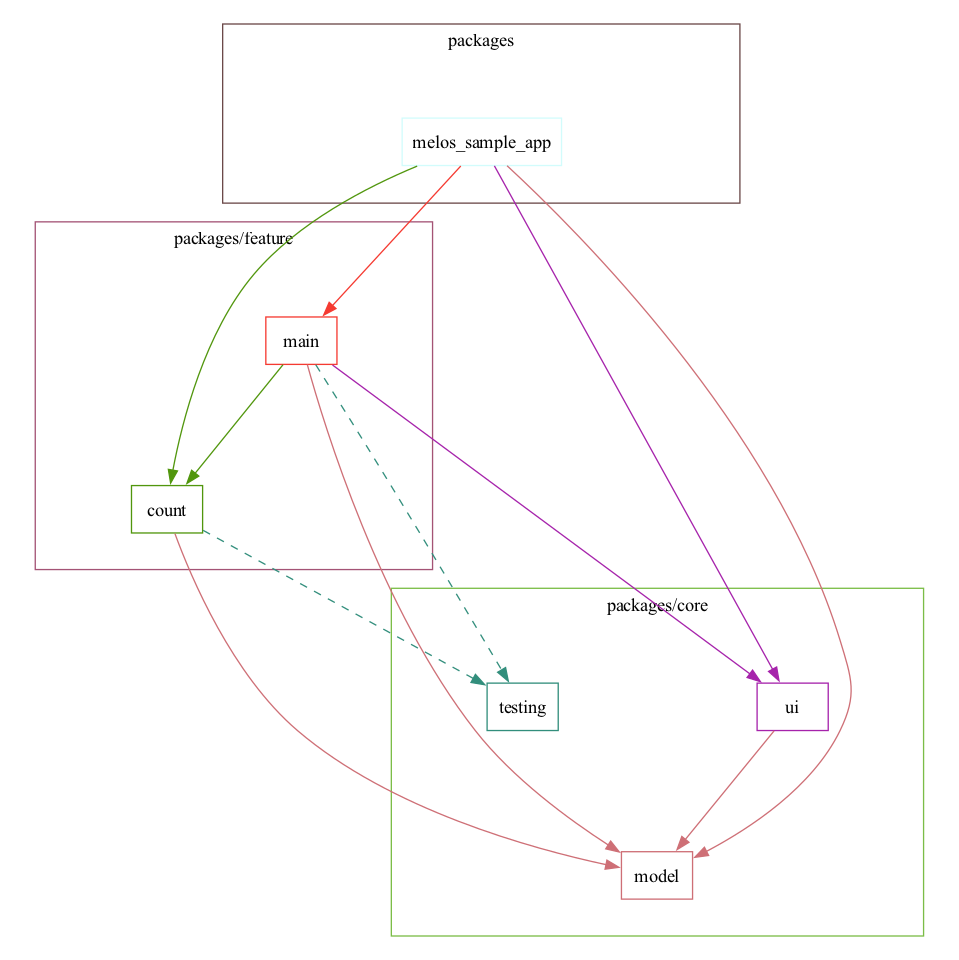
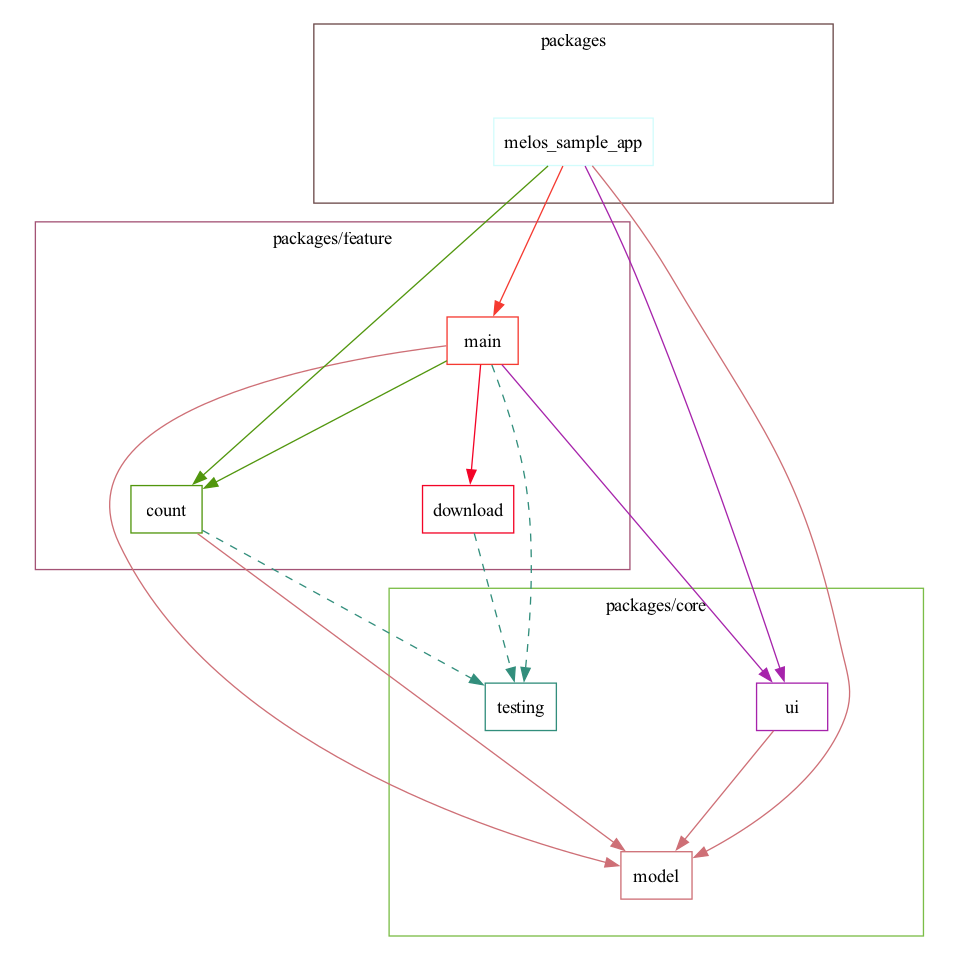
update README

diff --git a/README.md b/README.md
@@ -22,10 +22,14 @@ as Json...
     "model",
     "testing"
   ],
+  "download": [
+    "testing"
+  ],
   "main": [
     "count",
     "model",
     "ui",
+    "download",
     "testing"
   ],
   "melos_sample_app": [
